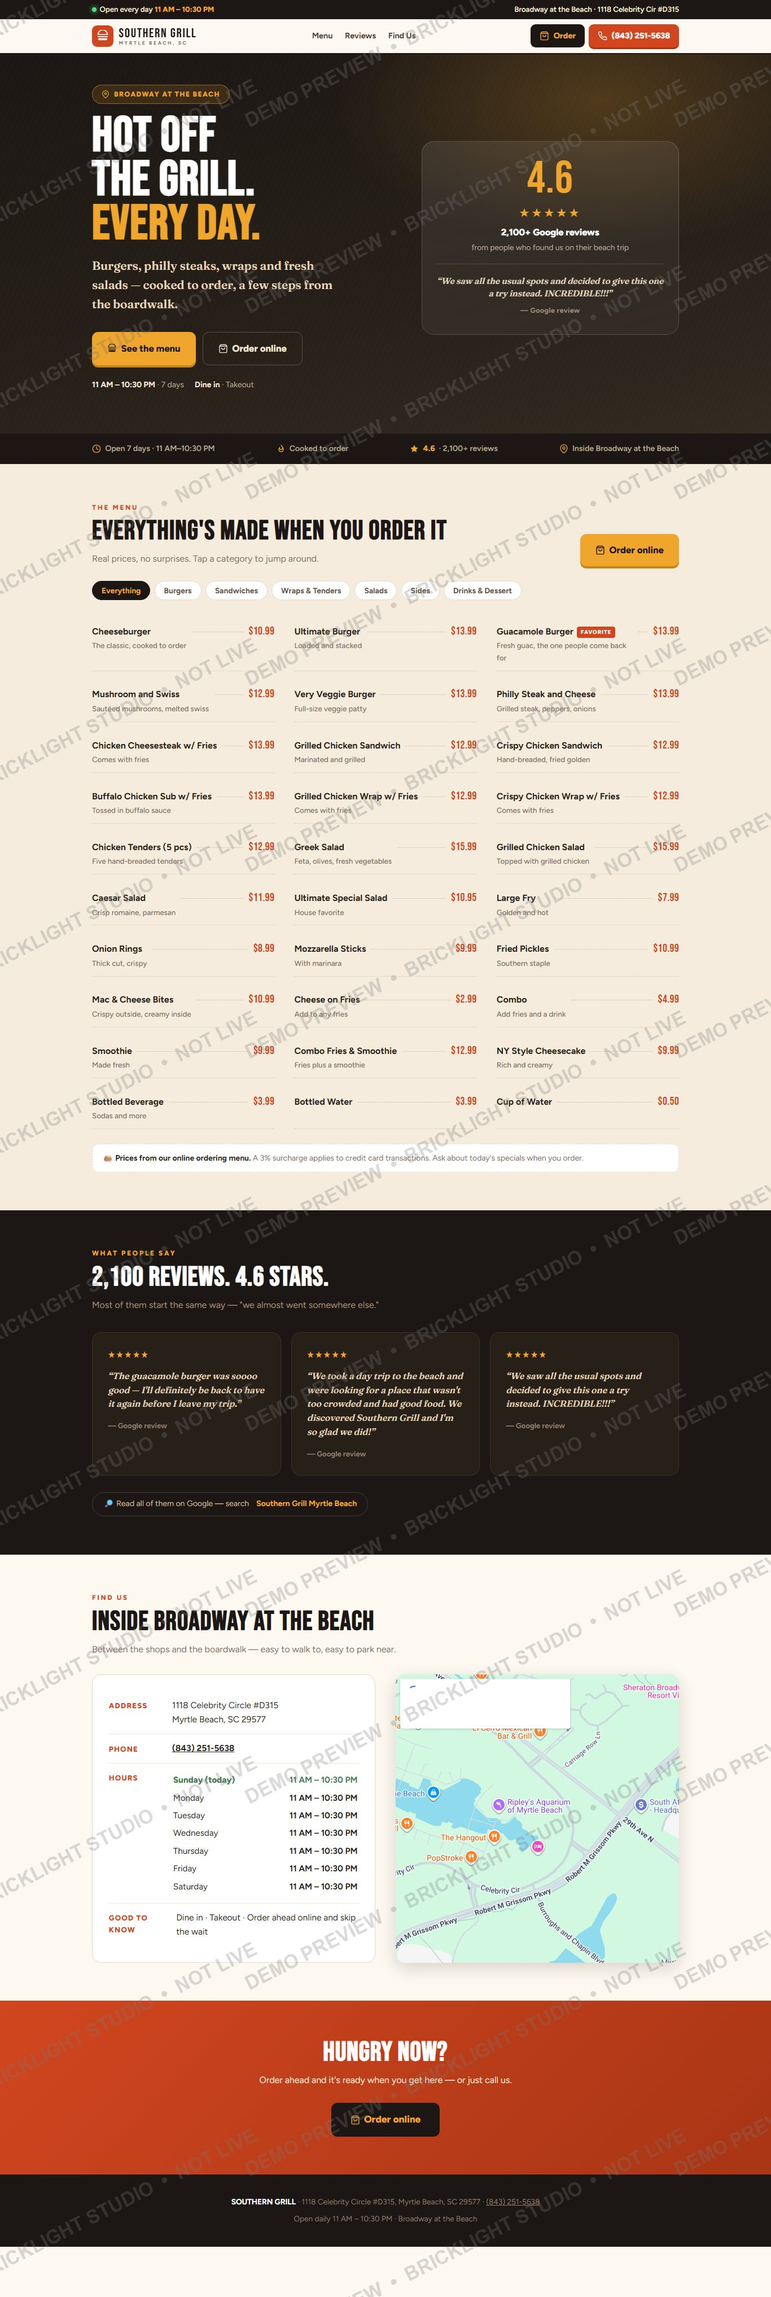
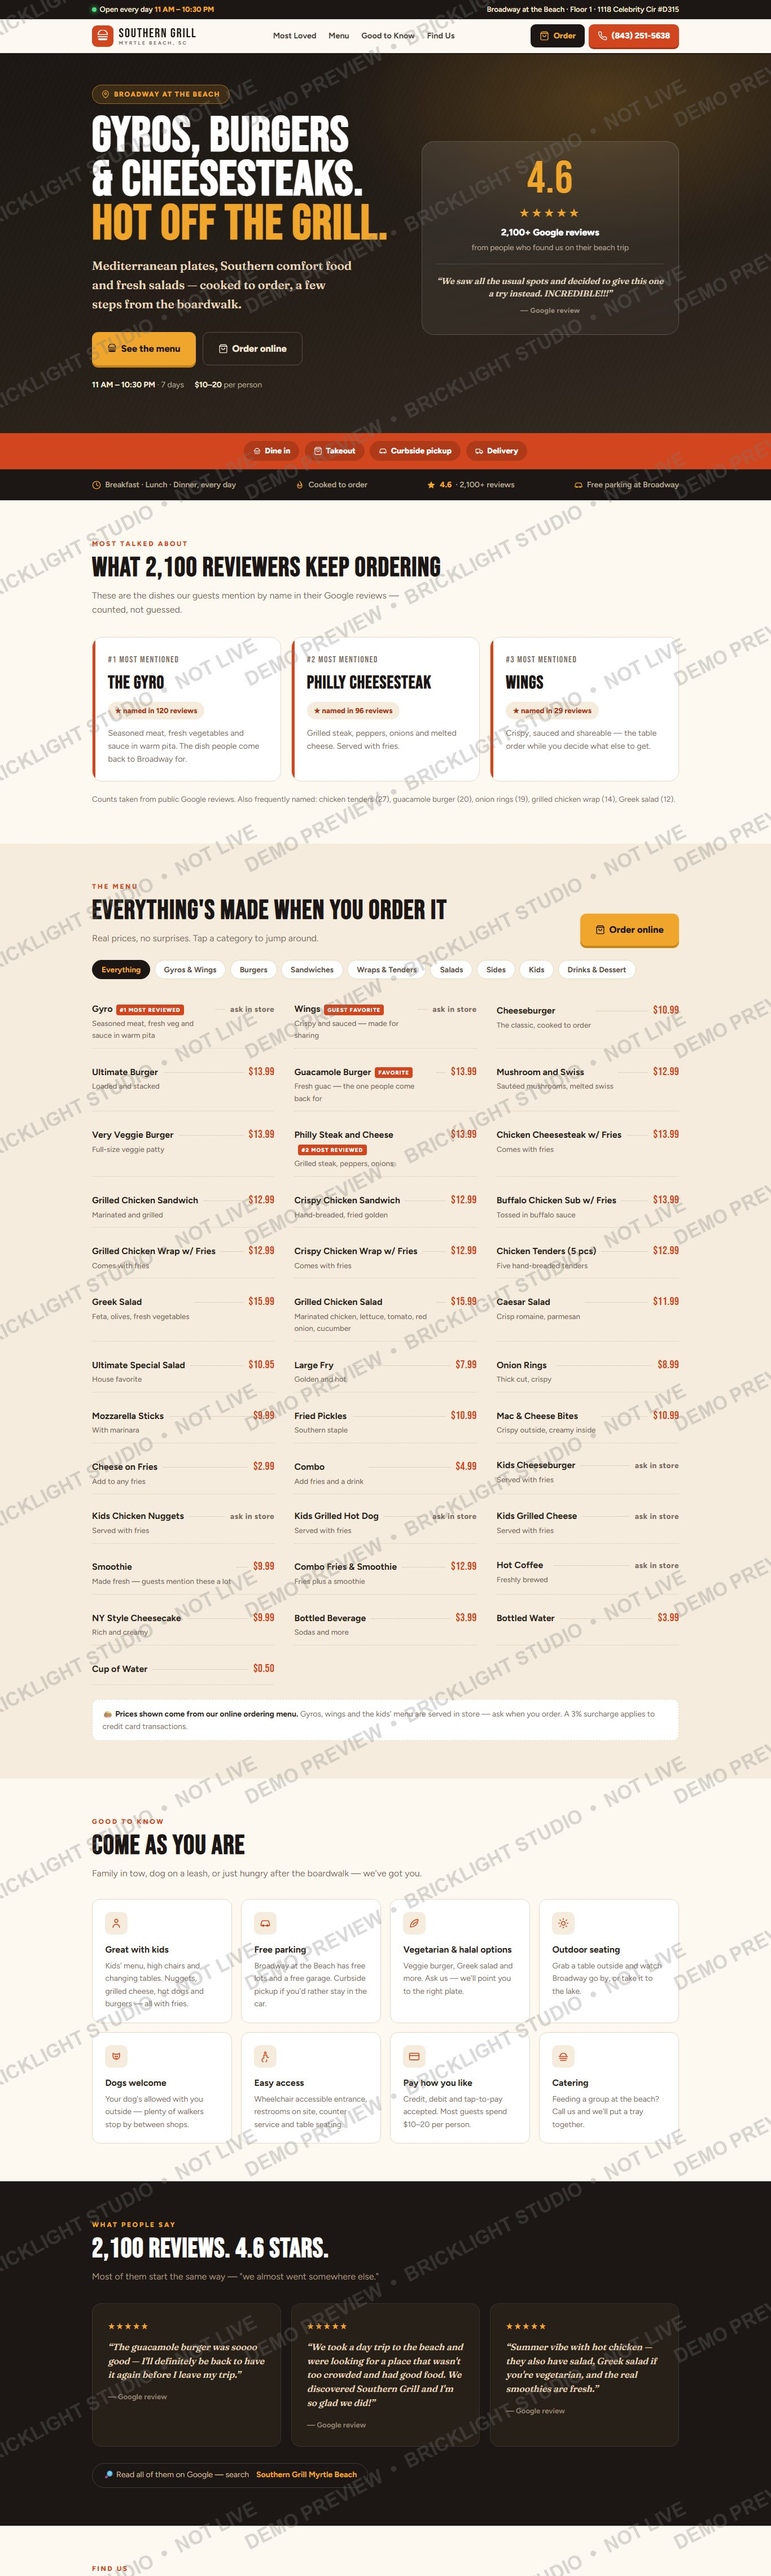
Southern Grill v2: gyros/wings (top reviewed dishes), kids menu, service options, amenities

diff --git a/southern-grill-36c9/index.html b/southern-grill-36c9/index.html
@@ -3,8 +3,8 @@
 <head>
 <meta charset="UTF-8">
 <meta name="viewport" content="width=device-width, initial-scale=1.0">
-<title>Southern Grill — Burgers, Wraps &amp; Salads at Broadway at the Beach, Myrtle Beach SC</title>
-<meta name="description" content="Southern Grill at Broadway at the Beach, Myrtle Beach. Burgers, philly steaks, wraps, fresh salads and smoothies. 4.6 stars from 2,100+ Google reviews. Open daily 11 AM–10:30 PM. Call (843) 251-5638.">
+<title>Southern Grill — Gyros, Burgers &amp; Philly Cheesesteaks at Broadway at the Beach, Myrtle Beach SC</title>
+<meta name="description" content="Southern Grill at Broadway at the Beach, Myrtle Beach. Gyros, philly cheesesteaks, wings, burgers, fresh salads and smoothies. 4.6 stars from 2,100+ Google reviews. Dine in, takeout, curbside or delivery. Open daily 11 AM–10:30 PM. (843) 251-5638.">
 <link rel="preconnect" href="https://fonts.googleapis.com">
 <link rel="preconnect" href="https://fonts.gstatic.com" crossorigin>
 <link href="https://fonts.googleapis.com/css2?family=Bebas+Neue&family=Fraunces:opsz,wght@9..144,600;9..144,700&family=Figtree:wght@400;500;600;700;800&display=swap" rel="stylesheet">
@@ -23,13 +23,12 @@ img,svg{display:block;max-width:100%}
 .wrap{max-width:1080px;margin:0 auto;padding:0 1.25rem}
 .sr{position:absolute;width:1px;height:1px;overflow:hidden;clip:rect(0 0 0 0)}
 
-/* ---------- top bar */
 .ribbon{background:var(--char);color:#f4e6cf;font-size:.82rem;padding:.4rem 0;font-weight:600}
 .ribbon .wrap{display:flex;justify-content:space-between;gap:1rem;flex-wrap:wrap;align-items:center}
 .ribbon b{color:var(--amber)}
 .open-dot{display:inline-block;width:8px;height:8px;border-radius:50%;background:#4ade80;margin-right:.35rem;box-shadow:0 0 8px #4ade80}
 
-nav{position:sticky;top:0;z-index:60;background:rgba(253,248,240,.96);backdrop-filter:blur(8px);border-bottom:2px solid var(--char);}
+nav{position:sticky;top:0;z-index:60;background:rgba(253,248,240,.96);backdrop-filter:blur(8px);border-bottom:2px solid var(--char)}
 .nav-in{max-width:1080px;margin:0 auto;padding:.6rem 1.25rem;display:flex;align-items:center;justify-content:space-between;gap:1rem}
 .logo{display:flex;align-items:center;gap:.6rem;text-decoration:none}
 .logo .mark{width:38px;height:38px;border-radius:9px;background:var(--rust);display:flex;align-items:center;justify-content:center;flex:none}
@@ -48,7 +47,6 @@ nav ul a:hover{color:var(--rust)}
 @media(max-width:900px){nav ul{display:none}}
 @media(max-width:520px){.btn-order .t,.btn-call .t{display:none}.btn-call,.btn-order{padding:.55rem .75rem}}
 
-/* ---------- hero */
 header.hero{position:relative;background:
   radial-gradient(760px 420px at 78% 12%, rgba(240,165,44,.22), transparent 62%),
   linear-gradient(168deg,var(--char) 0%,var(--char2) 62%,#332a21 100%);
@@ -61,7 +59,7 @@ header.hero::after{content:"";position:absolute;inset:0;opacity:.16;pointer-even
   color:var(--amber);font-weight:800;font-size:.76rem;letter-spacing:1.4px;text-transform:uppercase;padding:.4rem 1rem;border-radius:99px;margin-bottom:1.2rem}
 h1{font-family:var(--fd);font-size:clamp(3rem,8.5vw,5.4rem);line-height:.9;letter-spacing:1.5px;color:#fff}
 h1 span{display:block;color:var(--amber)}
-.tagline{font-family:var(--fs);font-size:clamp(1.05rem,2.2vw,1.32rem);color:#e6d5bd;margin-top:1.1rem;max-width:460px;font-weight:600}
+.tagline{font-family:var(--fs);font-size:clamp(1.05rem,2.2vw,1.32rem);color:#e6d5bd;margin-top:1.1rem;max-width:470px;font-weight:600}
 .hero-ctas{display:flex;gap:.75rem;flex-wrap:wrap;margin-top:2rem}
 .btn-lg{padding:.95rem 1.7rem;font-size:1.04rem;border-radius:11px}
 .btn-amber{background:var(--amber);color:var(--char);box-shadow:0 4px 0 #c8841c}
@@ -70,9 +68,8 @@ h1 span{display:block;color:var(--amber)}
 .hero-meta{margin-top:1.5rem;color:#b6a794;font-size:.88rem;display:flex;gap:1.2rem;flex-wrap:wrap}
 .hero-meta b{color:#f0e5d4}
 
-/* review medallion */
 .medal{background:linear-gradient(160deg,rgba(255,255,255,.09),rgba(255,255,255,.03));border:1px solid rgba(255,255,255,.16);
-  border-radius:22px;padding:2rem 1.6rem;text-align:center;backdrop-filter:blur(3px);position:relative}
+  border-radius:22px;padding:2rem 1.6rem;text-align:center;backdrop-filter:blur(3px)}
 .medal .num{font-family:var(--fd);font-size:5rem;line-height:.85;color:var(--amber);letter-spacing:1px}
 .medal .stars{color:var(--amber);font-size:1.35rem;letter-spacing:4px;margin:.5rem 0 .3rem}
 .medal .cnt{font-weight:800;color:#fff;font-size:1.02rem}
@@ -81,20 +78,35 @@ h1 span{display:block;color:var(--amber)}
 .medal .quote{font-family:var(--fs);font-style:italic;color:#e6d5bd;font-size:.95rem;line-height:1.5}
 .medal .who{color:#9d8f7d;font-size:.78rem;margin-top:.5rem;font-weight:700;letter-spacing:.4px}
 
-/* ---------- strip */
+/* service options band */
+.serve{background:var(--rust);color:#fff;padding:.9rem 0}
+.serve .wrap{display:flex;justify-content:center;gap:.6rem;flex-wrap:wrap}
+.serve span{display:inline-flex;align-items:center;gap:.4rem;background:rgba(0,0,0,.16);border-radius:99px;
+  padding:.4rem 1rem;font-weight:800;font-size:.88rem}
+.serve svg{width:15px;height:15px}
+
 .facts{background:var(--char);border-top:1px solid rgba(255,255,255,.07);padding:1rem 0}
 .facts .wrap{display:flex;justify-content:space-between;gap:1rem;flex-wrap:wrap;color:#b6a794;font-size:.88rem;font-weight:600}
 .facts b{color:var(--amber)}
 .facts span{display:flex;align-items:center;gap:.45rem}
 .facts svg{width:16px;height:16px;flex:none;color:var(--amber)}
 
-/* ---------- sections */
 section{padding:4.2rem 0}
 .eyebrow{color:var(--rust);letter-spacing:2.6px;text-transform:uppercase;font-size:.75rem;font-weight:800;display:block;margin-bottom:.55rem}
 h2{font-family:var(--fd);font-size:clamp(2.1rem,5vw,3rem);letter-spacing:1.2px;line-height:1;color:var(--char)}
-.sub{color:var(--mut);max-width:560px;margin-top:.75rem;font-size:1rem}
+.sub{color:var(--mut);max-width:600px;margin-top:.75rem;font-size:1rem}
 
-/* ---------- menu */
+/* most talked about */
+.loved-grid{display:grid;grid-template-columns:repeat(auto-fit,minmax(250px,1fr));gap:1.1rem;margin-top:2.2rem}
+.loved{background:#fff;border:1px solid var(--line);border-radius:18px;padding:1.7rem;position:relative;overflow:hidden}
+.loved::before{content:"";position:absolute;left:0;top:0;bottom:0;width:5px;background:var(--rust)}
+.loved .rank{font-family:var(--fd);font-size:1rem;letter-spacing:1.5px;color:var(--mut)}
+.loved h3{font-family:var(--fd);font-size:2rem;letter-spacing:1px;color:var(--char);margin:.15rem 0 .5rem}
+.loved .cnt{display:inline-flex;align-items:center;gap:.4rem;background:var(--cream2);border-radius:99px;
+  padding:.3rem .8rem;font-weight:800;font-size:.82rem;color:var(--rust-dk)}
+.loved p{color:var(--mut);font-size:.9rem;margin-top:.8rem}
+.loved-note{margin-top:1.3rem;font-size:.85rem;color:var(--mut)}
+
 .menu{background:var(--cream2)}
 .menu-head{display:flex;justify-content:space-between;align-items:flex-end;gap:1.4rem;flex-wrap:wrap;margin-bottom:1.6rem}
 .tabs{display:flex;gap:.45rem;flex-wrap:wrap;margin-bottom:1.8rem}
@@ -109,16 +121,24 @@ h2{font-family:var(--fd);font-size:clamp(2.1rem,5vw,3rem);letter-spacing:1.2px;l
   padding:.12rem .4rem;border-radius:4px;vertical-align:middle;margin-left:.4rem;text-transform:uppercase}
 .mi .dots{flex:1;border-bottom:1px dotted #cbb99f;transform:translateY(-4px);min-width:16px}
 .mi .pr{font-family:var(--fd);font-size:1.22rem;color:var(--rust);letter-spacing:.5px;flex:none}
+.mi .pr.ask{font-size:.85rem;font-family:var(--fb);font-weight:800;color:var(--mut)}
 .mi .ds{display:block;font-weight:500;font-size:.83rem;color:var(--mut);margin-top:.12rem}
 .menu-note{margin-top:1.6rem;background:#fff;border:1px dashed var(--line);border-radius:12px;padding:.85rem 1.1rem;font-size:.87rem;color:var(--mut)}
 .menu-note b{color:var(--ink)}
 
-/* ---------- reviews */
+/* good to know */
+.gtk-grid{display:grid;grid-template-columns:repeat(auto-fit,minmax(215px,1fr));gap:1rem;margin-top:2rem}
+.gtk{background:#fff;border:1px solid var(--line);border-radius:14px;padding:1.4rem}
+.gtk .ic{width:40px;height:40px;border-radius:10px;background:var(--cream2);display:flex;align-items:center;justify-content:center;margin-bottom:.85rem}
+.gtk .ic svg{width:20px;height:20px;color:var(--rust)}
+.gtk h3{font-size:1rem;margin-bottom:.3rem}
+.gtk p{font-size:.87rem;color:var(--mut)}
+
 .revs{background:var(--char);color:#fff}
 .revs h2{color:#fff}
 .revs .sub{color:#a2937f}
 .rev-grid{display:grid;grid-template-columns:repeat(auto-fit,minmax(280px,1fr));gap:1.1rem;margin-top:2.2rem}
-.rev{background:var(--char2);border:1px solid rgba(255,255,255,.08);border-radius:16px;padding:1.7rem;position:relative}
+.rev{background:var(--char2);border:1px solid rgba(255,255,255,.08);border-radius:16px;padding:1.7rem}
 .rev .stars{color:var(--amber);letter-spacing:2px;margin-bottom:.75rem;font-size:.95rem}
 .rev p{font-family:var(--fs);font-style:italic;color:#e0d1ba;font-size:1rem;line-height:1.55}
 .rev footer{margin-top:1rem;color:#8d7f6d;font-size:.82rem;font-weight:700}
@@ -126,7 +146,6 @@ h2{font-family:var(--fd);font-size:clamp(2.1rem,5vw,3rem);letter-spacing:1.2px;l
   border-radius:99px;padding:.6rem 1.2rem;color:#c9b99f;font-size:.88rem}
 .gbar b{color:var(--amber)}
 
-/* ---------- visit */
 .visit-grid{display:grid;grid-template-columns:1fr 1fr;gap:2.2rem;margin-top:2rem}
 @media(max-width:860px){.visit-grid{grid-template-columns:1fr}}
 .vcard{background:#fff;border:1px solid var(--line);border-radius:16px;padding:1.8rem}
@@ -140,7 +159,6 @@ h2{font-family:var(--fd);font-size:clamp(2.1rem,5vw,3rem);letter-spacing:1.2px;l
 .today{color:var(--green);font-weight:800}
 iframe.map{width:100%;height:100%;min-height:340px;border:0;border-radius:16px;box-shadow:0 10px 30px rgba(28,23,20,.16)}
 
-/* ---------- cta */
 .cta{background:linear-gradient(135deg,var(--rust),var(--rust-dk));color:#fff;text-align:center}
 .cta h2{color:#fff}
 .cta p{margin:.8rem auto 1.7rem;max-width:480px;color:#ffe3d6}
@@ -150,7 +168,6 @@ footer.site{background:var(--char);color:#8d7f6d;text-align:center;padding:2.4re
 footer.site b{color:#fff}
 footer.site .fl{margin-top:.5rem}
 
-/* ---------- sticky mobile bar */
 .stickybar{position:fixed;left:0;right:0;bottom:0;z-index:70;display:grid;grid-template-columns:1fr 1fr;
   border-top:2px solid var(--char);box-shadow:0 -6px 20px rgba(28,23,20,.2)}
 .stickybar a{display:flex;align-items:center;justify-content:center;gap:.5rem;padding:1.05rem .5rem;
@@ -180,7 +197,7 @@ footer.site .fl{margin-top:.5rem}
 </style>
 
 </head>
[2 lines of base64/hex data omitted]
 <div class="bl-watermark" aria-hidden="true"></div>
 <div class="bl-banner">✨ This is a <b>free preview</b> built for <b>Southern Grill</b> by <b>Bricklight Studio</b> — it is not live yet. Like it? It can be yours this week.</div>
 <script>
